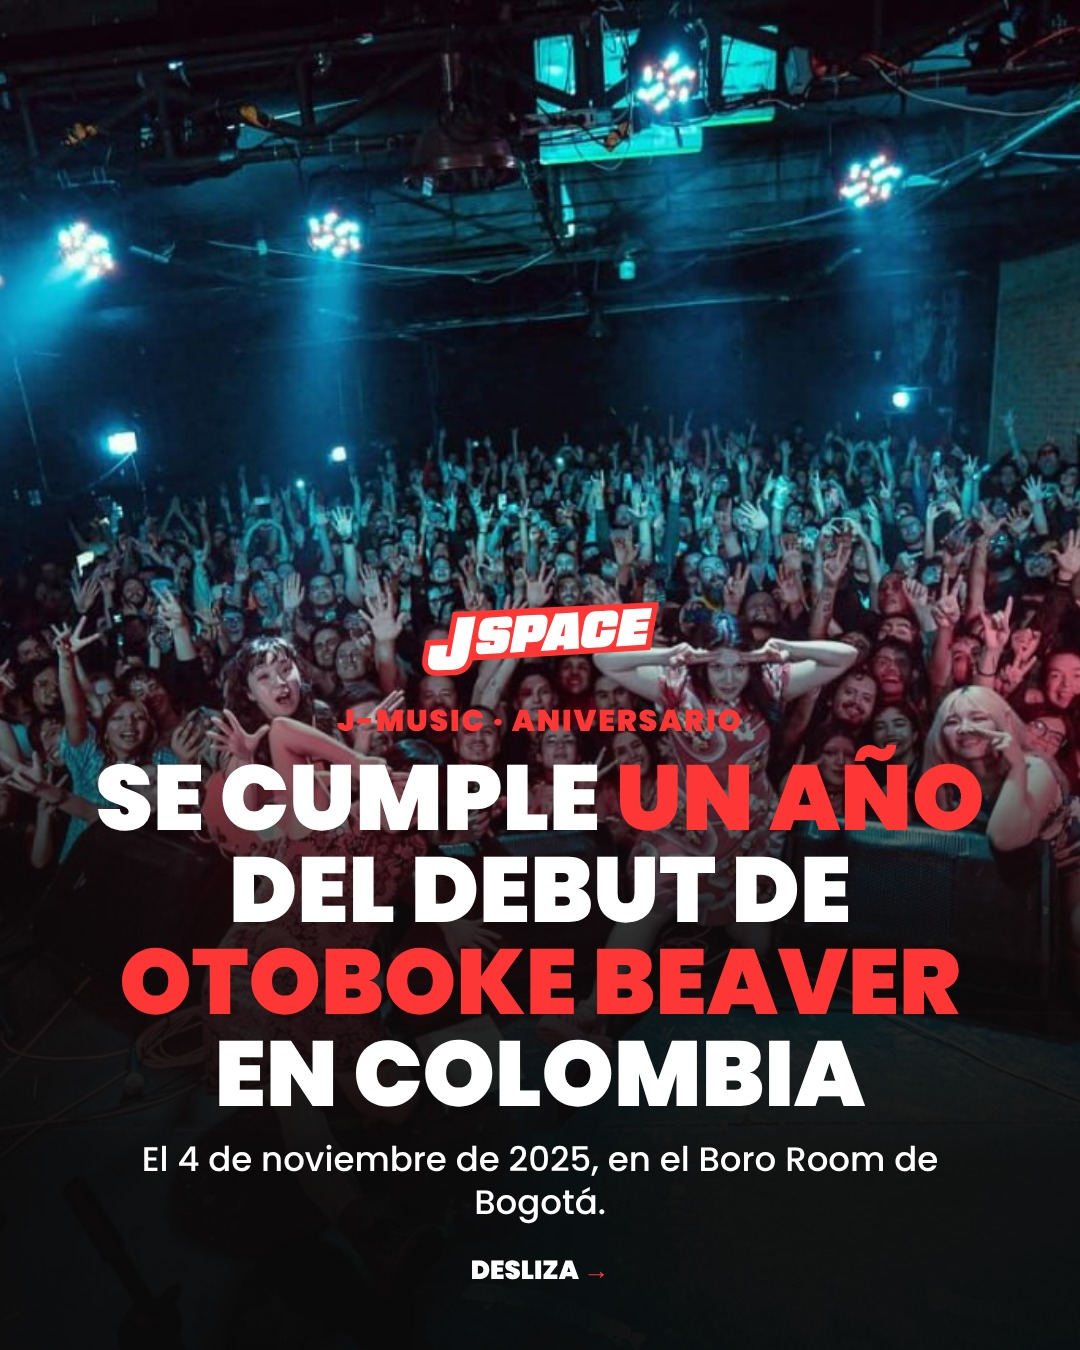
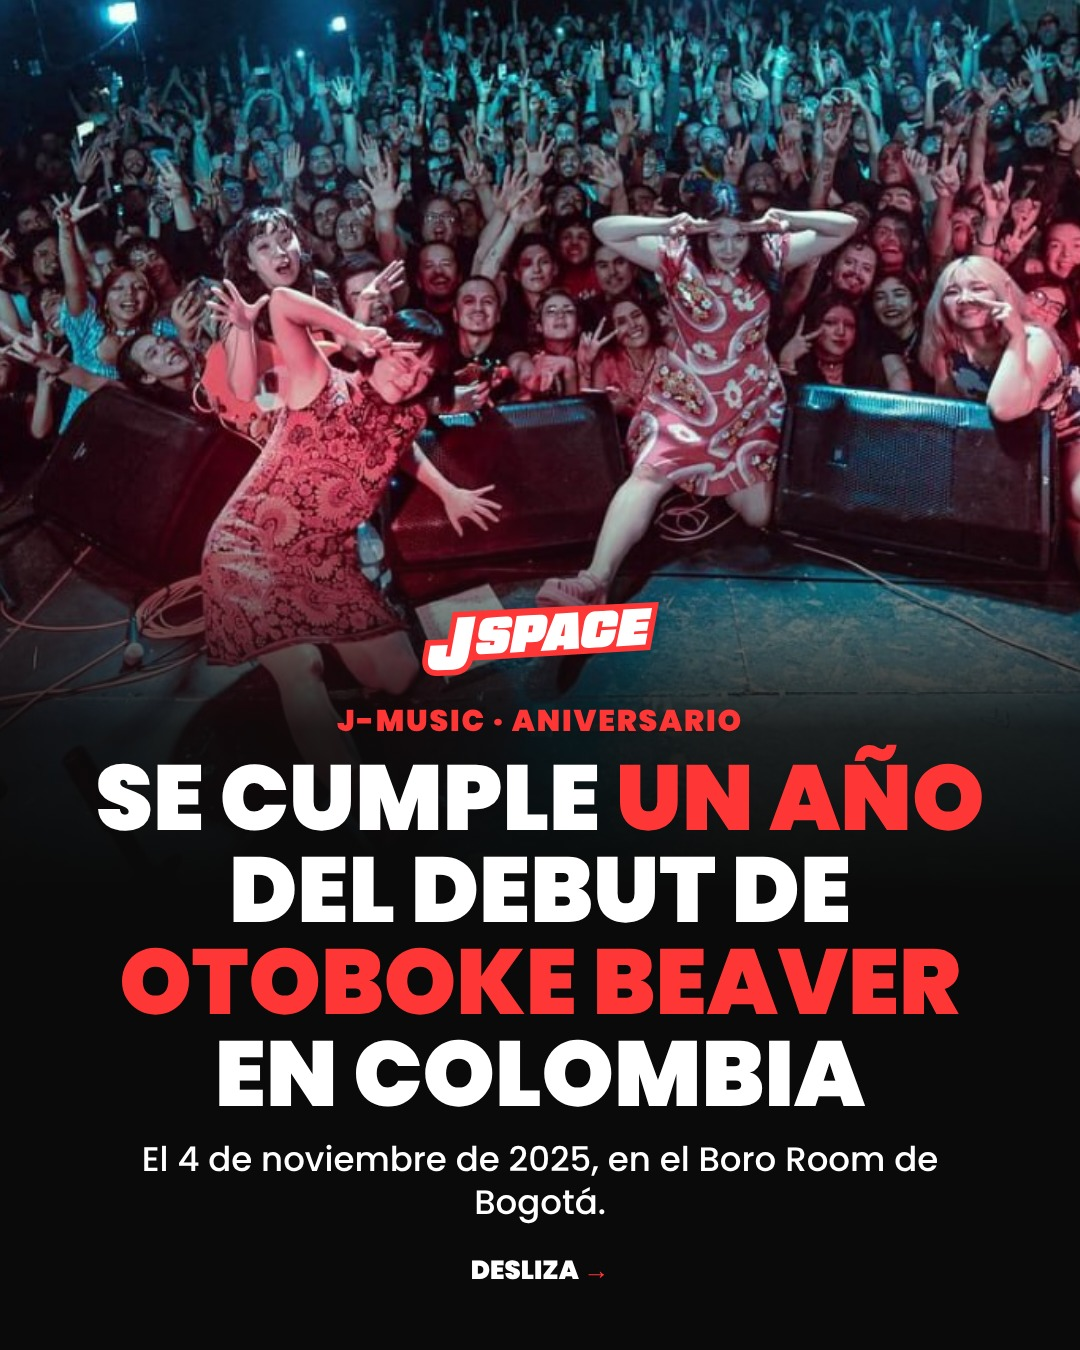
Telegram: Otoboke, fotos más arriba en portada y slide 2
Claude-Session: https://claude.ai/code/session_011K3BAwe3J1L3FsDHuq48Zj

diff --git a/plantilla/noticia.html b/plantilla/noticia.html
@@ -85,10 +85,13 @@
     const AI = Math.min(S.alto_imagen || H, H);
     const f = el('div', 'foto', { left: '0', top: (arriba ? H - AI : 0) + 'px', width: W + 'px', height: AI + 'px', background: claro ? 'var(--blanco)' : 'var(--negro)' });
     const im = document.createElement('img'); im.src = src(S.imagen); im.style.objectPosition = S.encuadre || '50% 30%'; f.appendChild(im);
+    // subir: sube la foto N px; el hueco de abajo queda cubierto por el degradado opaco (para que se vea a la gente sobre el texto)
+    if (S.subir) im.style.transform = `translateY(-${S.subir}px)`;
     if (claro) Q.classList.add('claro');
     const c = claro ? '255,255,255' : '10,10,10', fuerza = S.sombra != null ? S.sombra : 1;
     const capas = arriba
       ? `rgba(${c},${0.92 * fuerza}) 0%, rgba(${c},${0.8 * fuerza}) 26%, rgba(${c},0) 52%`
+      : S.subir ? `rgba(${c},0) 34%, rgba(${c},${0.9 * fuerza}) 54%, rgba(${c},1) 66%`
       : `rgba(${c},0) 46%, rgba(${c},${0.82 * fuerza}) 68%, rgba(${c},${0.96 * fuerza}) 86%`;
     el('div', 'abs', { left: '0', top: '0', width: W + 'px', height: H + 'px', background: `linear-gradient(180deg, ${capas})` });
     const tx = claro ? 'var(--negro)' : 'var(--blanco)';
